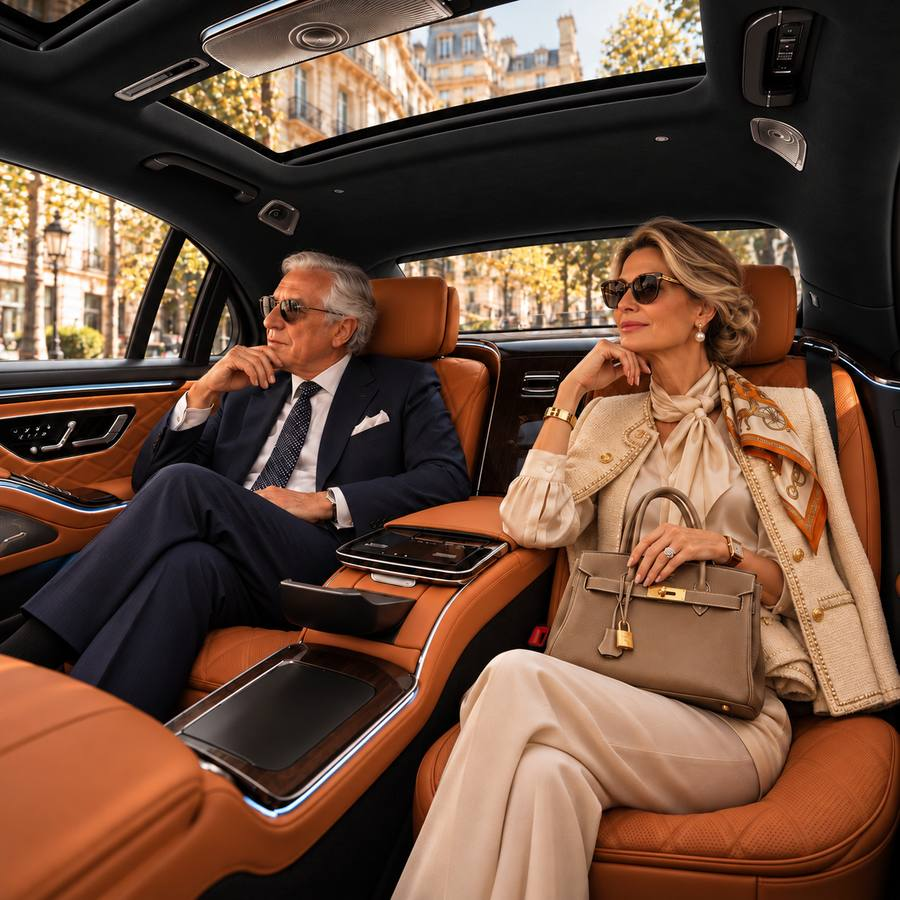
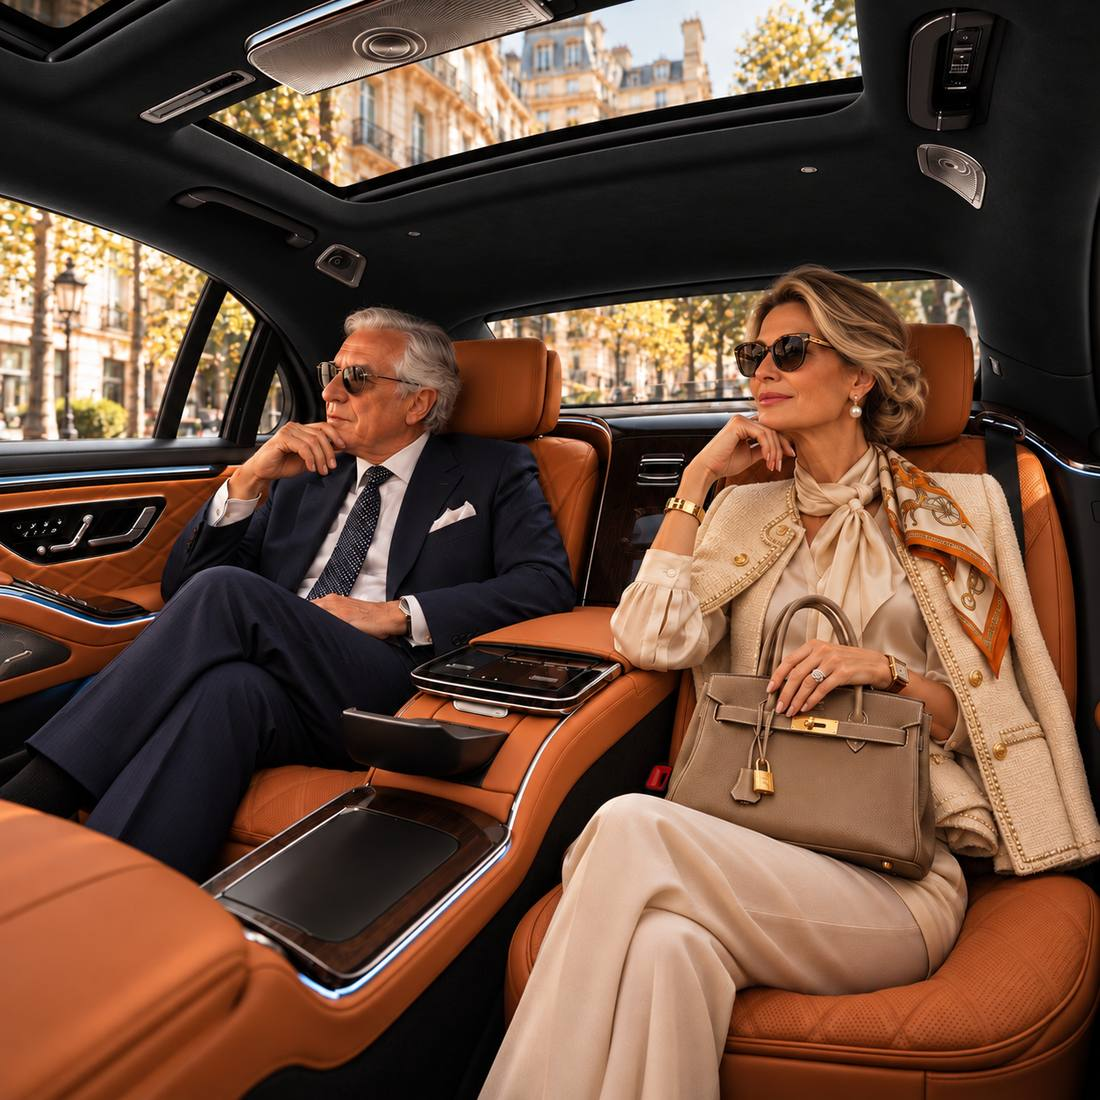
Appli : photo de fond sur la page de connexion, bienvenue lancée quand la page est prête
Claude-Session: https://claude.ai/code/session_01CyJeq5tc67jLzQGf4a8WHh

diff --git a/web/appli/rl-accueil.js b/web/appli/rl-accueil.js
@@ -1,17 +1,19 @@
-/* ---------- rlAccueil v1 : appli Rafai Limousine, écran de bienvenue animé et photo de fond de l'onglet Réserver ---------- */
+/* ---------- rlAccueil v2 : appli Rafai Limousine, écran de bienvenue animé et photo de fond de la page de connexion ---------- */
 (function rlAccueil() {
   var inApp = window.__rlPv || window.__rlNative || window.__rlTwa || /RafaiApp\//.test(navigator.userAgent);
   if (!inApp || window.__rlAccueil) return;
   window.__rlAccueil = 1;
   var FOND = window.__rlFond || '/rl-fond.jpg', LOGO = window.__rlLogo || '/icon-192.png';
   var css =
-    'html:has(#v-book:not(.hide)) body{background:#0c0c0e}' +
-    '#rlBg{display:none;position:fixed;inset:0;z-index:0;pointer-events:none;background:#0c0c0e url(' + FOND + ') center top/100% auto no-repeat}' +
-    'html:has(#v-book:not(.hide)) #rlBg{display:block}' +
-    '#rlBg:after{content:"";position:absolute;inset:0;background:linear-gradient(180deg,rgba(12,12,14,.5) 0,rgba(12,12,14,.12) 22%,rgba(12,12,14,.3) 36%,rgba(12,12,14,.9) 52%,#0c0c0e 62%)}' +
-    '.wrap{position:relative;z-index:1}' +
-    '#v-book .hero{background:none;box-shadow:none;border:0;min-height:236px;padding-top:6px;text-shadow:0 2px 14px rgba(0,0,0,.75)}' +
-    'html:has(#v-book:not(.hide)) .legal,html:has(#v-book:not(.hide)) .legal a{color:#b9b4aa}' +
+    '.gate.on{background:#0c0c0e}' +
+    '.gate:before,.gate:after{content:"";position:fixed;top:0;left:0;right:0;height:min(177vw,88vh);z-index:0;pointer-events:none}' +
+    '.gate:before{background:url(' + FOND + ') 65% 0/auto 100% no-repeat}' +
+    '.gate:after{background:linear-gradient(180deg,rgba(12,12,14,.8) 0,rgba(12,12,14,.66) 31%,rgba(12,12,14,.06) 43%,rgba(12,12,14,.1) 59%,rgba(12,12,14,.86) 72%,#0c0c0e 85%)}' +
+    '.gate .gw{z-index:1}' +
+    '.gate .glogo{width:72px;height:72px;margin:0 auto 12px}' +
+    '.gate h1{font-size:22px}' +
+    '.gate .gs{margin-bottom:0;font-size:14px}' +
+    '#gateF{margin-top:min(62vw,30vh)}' +
     '#rlBv{position:fixed;inset:0;z-index:99999;display:flex;flex-direction:column;align-items:center;justify-content:center;background:radial-gradient(70% 45% at 50% 44%,#2a2115 0,#0c0c0e 70%);animation:rlOut .55s ease-in 2.35s forwards;-webkit-user-select:none;user-select:none}' +
     '#rlBv .lg{position:relative;width:128px;height:128px;border-radius:28px;overflow:hidden;box-shadow:0 18px 50px -14px rgba(201,160,99,.55);animation:rlIn .8s cubic-bezier(.2,.8,.2,1) both}' +
     '#rlBv .lg img{display:block;width:100%;height:100%}' +
@@ -19,6 +21,7 @@
     '#rlBv .tx{margin-top:26px;font:700 25px/1.25 Manrope,-apple-system,system-ui,sans-serif;letter-spacing:-.01em;color:#fff;opacity:0;animation:rlUp .6s ease-out .55s forwards}' +
     '#rlBv .tx b{font-weight:800;background:linear-gradient(90deg,#E4C47E,#B8904F);-webkit-background-clip:text;background-clip:text;color:transparent}' +
     '#rlBv .ln{width:72px;height:2px;margin-top:16px;background:linear-gradient(90deg,transparent,#C9A063,transparent);transform:scaleX(0);animation:rlLn .7s ease-out .95s forwards}' +
+    '#rlBv:not(.go),#rlBv:not(.go) *{animation-play-state:paused}' +
     '@keyframes rlIn{from{opacity:0;transform:scale(.8)}to{opacity:1;transform:none}}' +
     '@keyframes rlUp{from{opacity:0;transform:translateY(12px)}to{opacity:1;transform:none}}' +
     '@keyframes rlLn{to{transform:scaleX(1)}}' +
@@ -29,9 +32,6 @@
   st.textContent = css;
   (document.head || document.documentElement).appendChild(st);
   function start() {
-    var bg = document.createElement('div');
-    bg.id = 'rlBg';
-    document.body.insertBefore(bg, document.body.firstChild);
     var vu = false;
     try { vu = sessionStorage.getItem('rl_bv') === '1'; sessionStorage.setItem('rl_bv', '1'); } catch (e) {}
     if (vu && !window.__rlPv) return;
@@ -57,7 +57,8 @@
     document.body.appendChild(o);
     function fin() { if (o.parentNode) o.parentNode.removeChild(o); }
     o.addEventListener('click', fin);
-    setTimeout(fin, 3000);
+    function go() { o.classList.add('go'); setTimeout(fin, 3000); }
+    if (document.readyState === 'complete') setTimeout(go, 120); else window.addEventListener('load', function () { setTimeout(go, 120); });
   }
   if (document.body) start(); else document.addEventListener('DOMContentLoaded', start);
 })();
